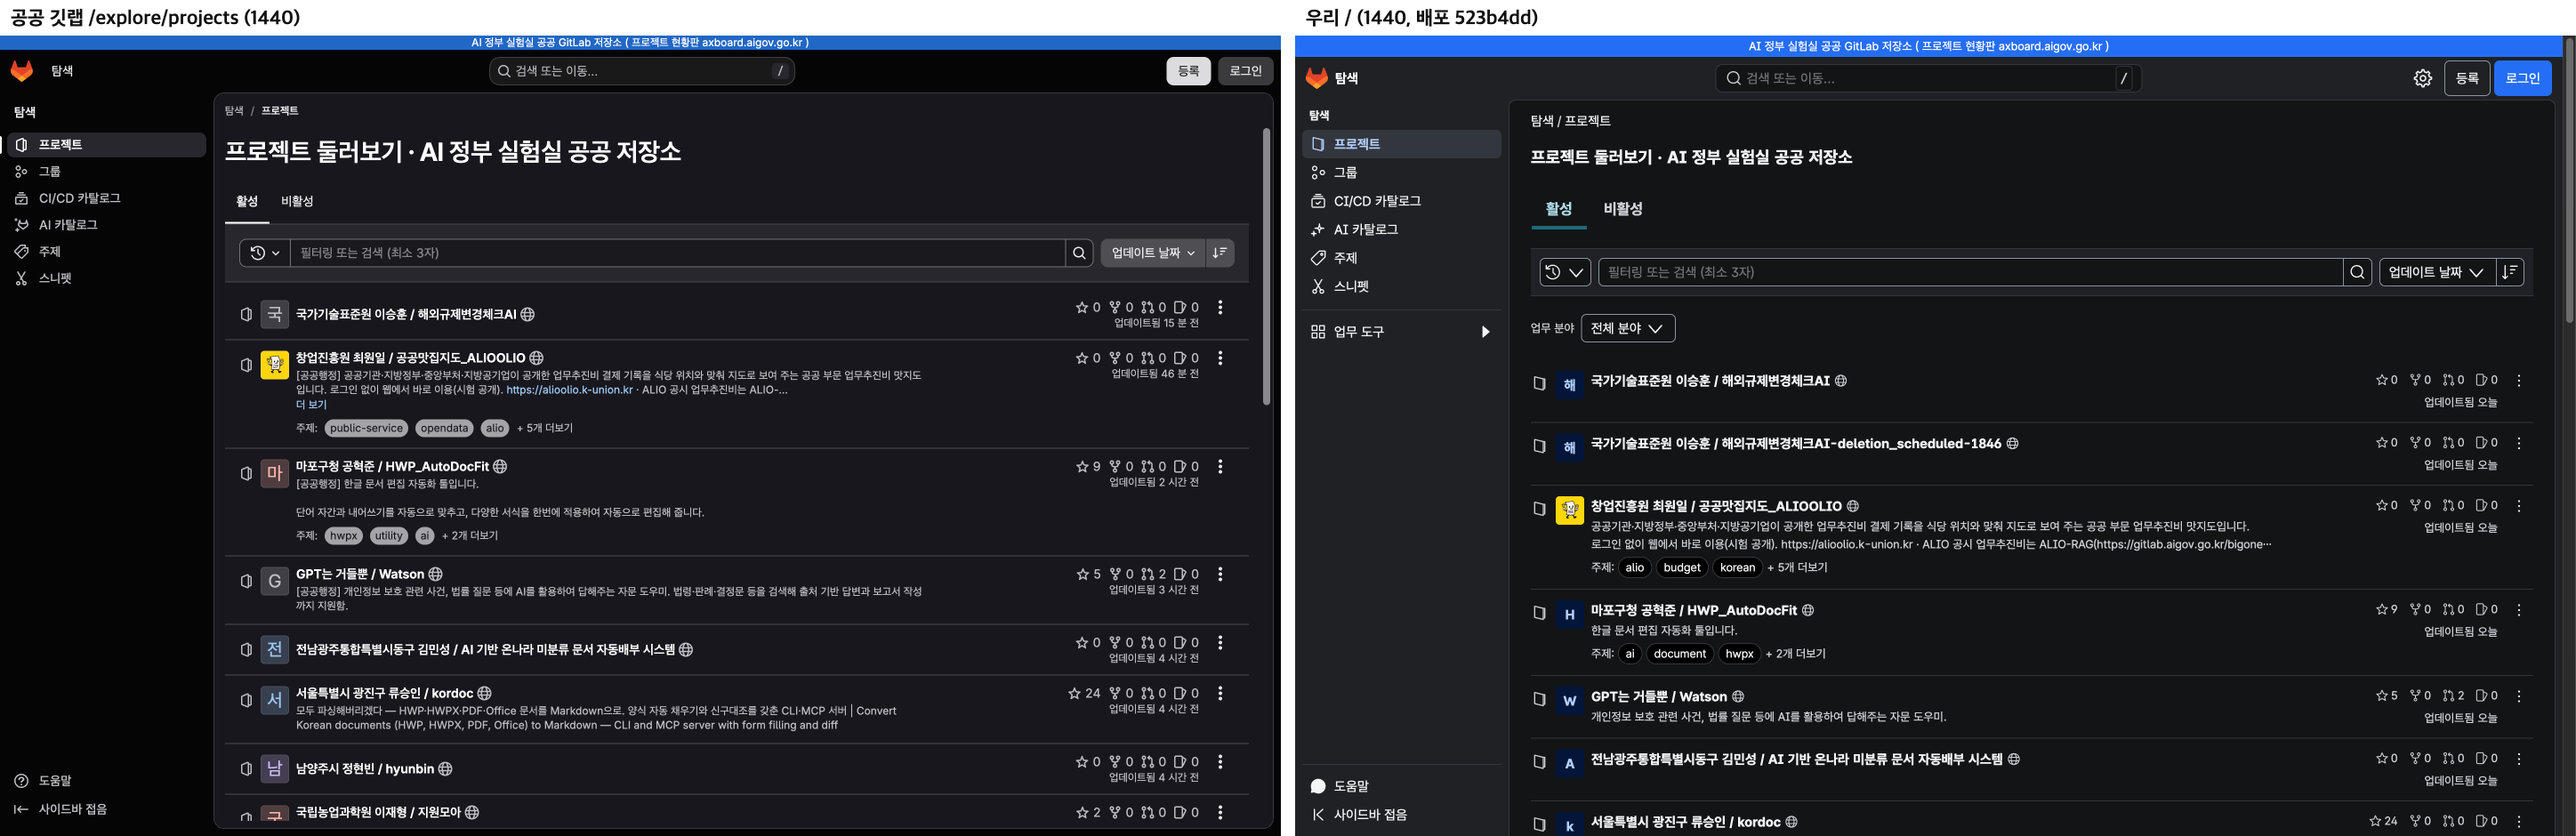
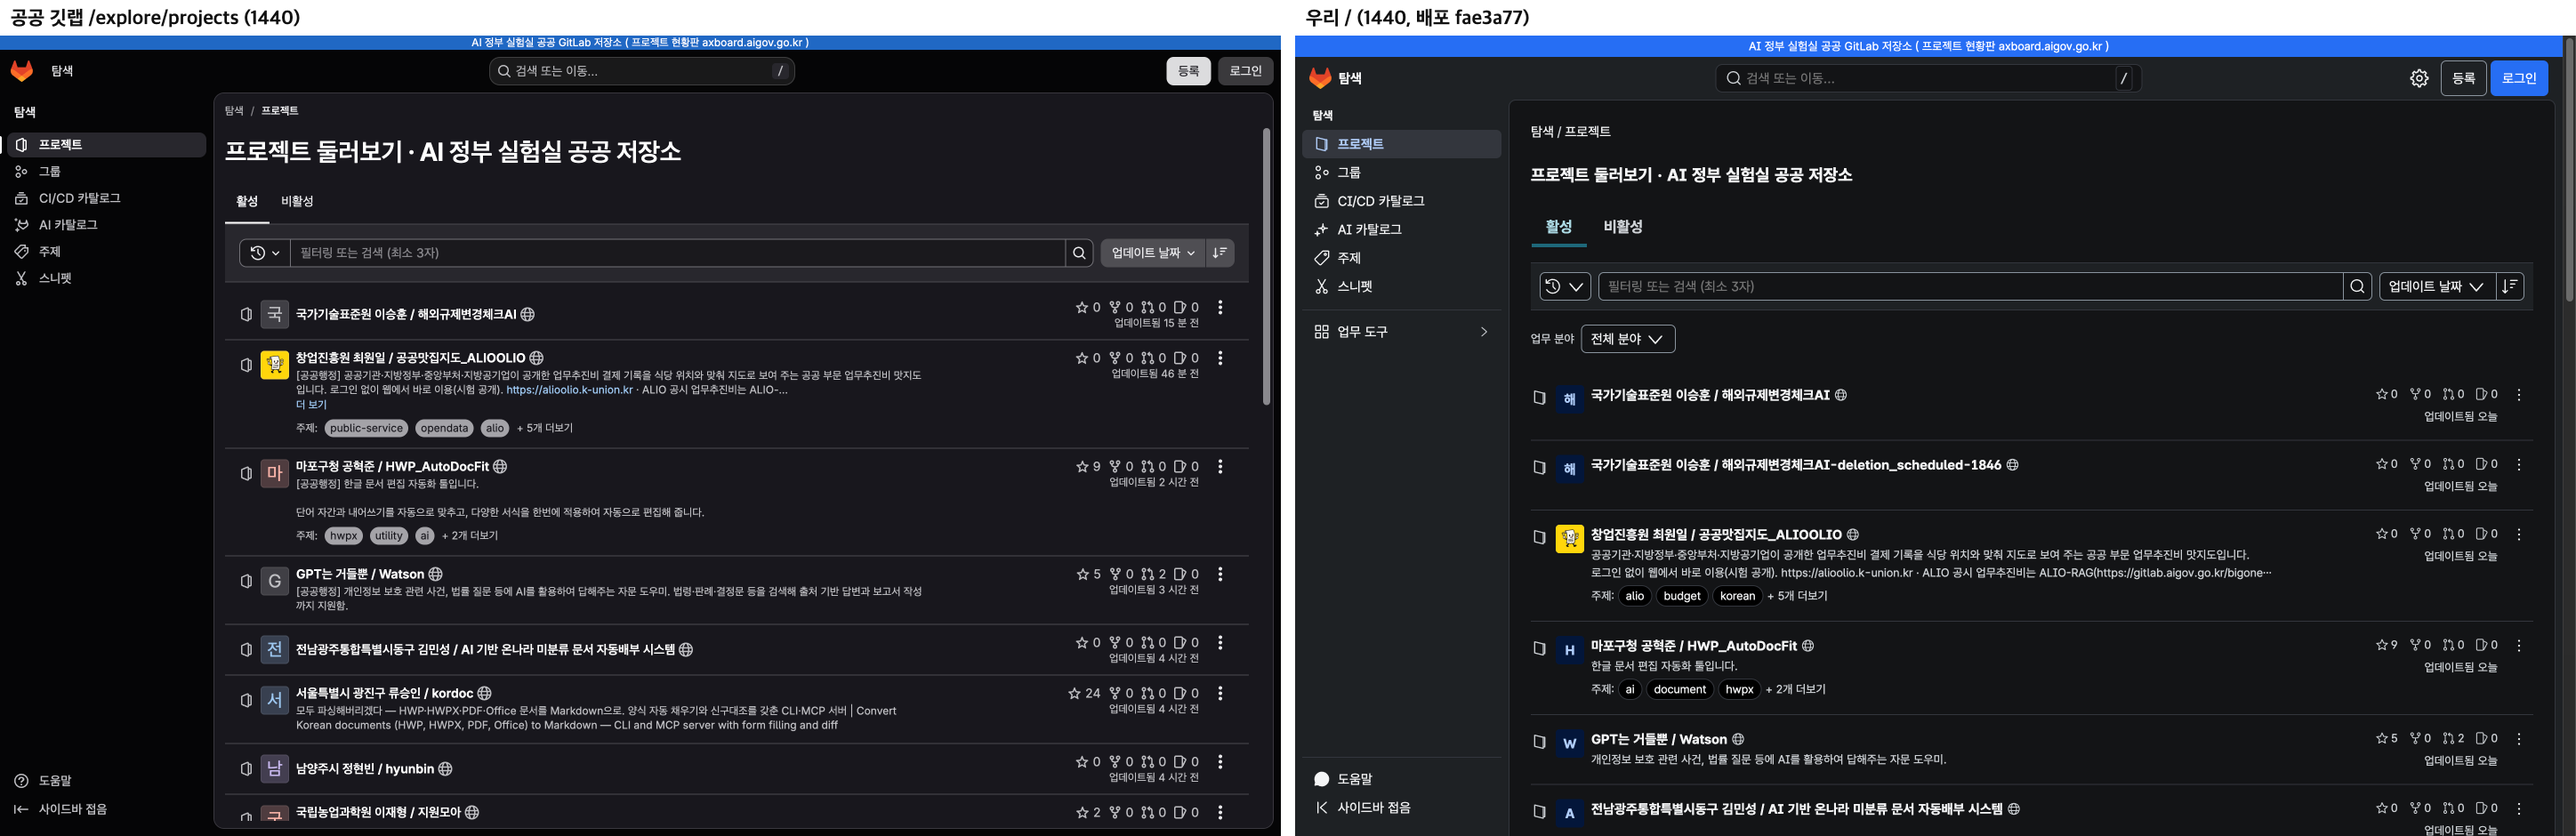
여백 검사 보정(정보 열 화면), 프로젝트 정보 열 스크롤 고정, 비교 이미지 01/02/02b 재생성(배포 fae3a77)

diff --git a/app/scripts/margin-inspect.js b/app/scripts/margin-inspect.js
@@ -21,7 +21,9 @@
   const left = [['경로', '.rb-panel-in .krds-breadcrumb-wrap'], ['제목', '#main h1'], ['바닥글', '#krds-footer']];
   for (const [n, sel] of left) { const e = document.querySelector(sel); if (shown(e) && Math.abs(e.getBoundingClientRect().left - L) > 2) bad.push(`${n} 왼쪽 ${r1(e.getBoundingClientRect().left)} (기준 ${r1(L)})`); }
   const right = [['목록 행', '.rb-prow'], ['프로젝트 정보', '.rb-repo-info'], ['바닥글', '#krds-footer'], ['파일 표', '.rb-tree-wrap']];
-  for (const [n, sel] of right) { const e = document.querySelector(sel); if (shown(e) && Math.abs(e.getBoundingClientRect().right - R) > 2) bad.push(`${n} 오른쪽 ${r1(e.getBoundingClientRect().right)} (기준 ${r1(R)})`); }
+  const hasInfo = shown(document.querySelector('.rb-repo-info'));
+  for (const [n, sel] of right) {
+    if (hasInfo && n === '파일 표') continue; const e = document.querySelector(sel);     if (shown(e) && Math.abs(e.getBoundingClientRect().right - R) > 2) bad.push(`${n} 오른쪽 ${r1(e.getBoundingClientRect().right)} (기준 ${r1(R)})`); }
   const side = document.querySelector('.rb-side');
   if (shown(side) && getComputedStyle(side).position !== 'fixed') {
     const sb = side.getBoundingClientRect().bottom, vb = Math.min(pr.bottom, innerHeight);

diff --git a/app/src/components/Layout/repo.css b/app/src/components/Layout/repo.css
@@ -142,3 +142,7 @@
 
 /* D-21 7장: 필터 막대와 목록 16, 제목과 탭 16 */
 .rb-x-tabs + .rb-x-filter, .rb-x-filter + * { margin-top: calc(var(--rb-filter-gap) - var(--rb-rhythm)); }
+/* 공공 깃랩 02: 프로젝트 정보 열은 스크롤해도 화면에 남는다 */
+@media (min-width: 1024px) {
+  .rb-repo-main.has-info > .rb-repo-info { position: sticky; top: calc(var(--rb-header-h) + var(--rb-masthead-h) + var(--rb-panel-pad-y)); }
+}

diff --git a/PROGRESS.md b/PROGRESS.md
@@ -64,3 +64,4 @@
 - D-21 6장 프로젝트 홈: 아바타 48 + 이름 24 + 공개 지구, 별표 분리 단추(별표|개수), 사용 기록(덧붙임), 세로 점 메뉴(원본, 포크, 오류 신고), 도구 줄(브랜치 아이콘+main, 경로 굵게, 파일 찾기, 코드), 최근 커밋 막대 한 줄(제목 본문색, 파이프라인 상태 KRDS 성공/실패 표시), 파일 표 커밋 글 본문색, 오른쪽 프로젝트 정보 상시(설명 4줄, 주제, 언어 막대 language-*, 커밋/브랜치/태그/릴리스 아이콘+굵은 숫자, README/라이선스/변경 로그, 생성 날짜, 덧붙임 사용 전 확인 4줄+더보기). DockInfo 삭제
 - 비교 이미지 2장(UX/gitlab_compare/01, 02, 공공 깃랩 실제 화면과 배포 화면 1440), 언어 막대 폭 수정, 커밋 수 전체 개수, 파일 트리 1440 이상만(--rb-bp-tree), UX/13 대조표 0~2장 갱신(빠짐 목록)
 - D-21 7장 여백(컨테이너 1200, 판 안 좌우 24/16, 상단 바 16, 사이드바 8/12, 가터 24, 행 16, 바닥글을 컨테이너 안 판 맨 아래로, 상단 띠+바 함께 고정, 사이드바 아래 = 판 아래), margin-inspect.js(좌우 대칭, 왼쪽/오른쪽 끝, 아래 끝) 360~2560 위반 0. D-22 모션 변수와 움직임 줄이기 설정, 사이드바 transform+판 margin 200ms(조건부 렌더링 제거), 묶음 0fr/1fr, 얇은 꺾쇠와 채운 삼각형 검사, 메뉴 올라옴, 툴팁 지연, 본문 교차, 단축키(? g c g i g p b)와 단축키 대화상자. 프레임 16.67ms, CLS 0(UX/16)
+- 배포본(fae3a77) 여백 검사 360~2560 홈, 프로젝트 홈 위반 0(margin-inspect, 정보 열 있으면 파일 표 오른쪽 제외). 비교 이미지 01, 02, 02b(맨 아래) 다시 생성. 프로젝트 정보 열 스크롤 고정(공공 깃랩과 같음)
